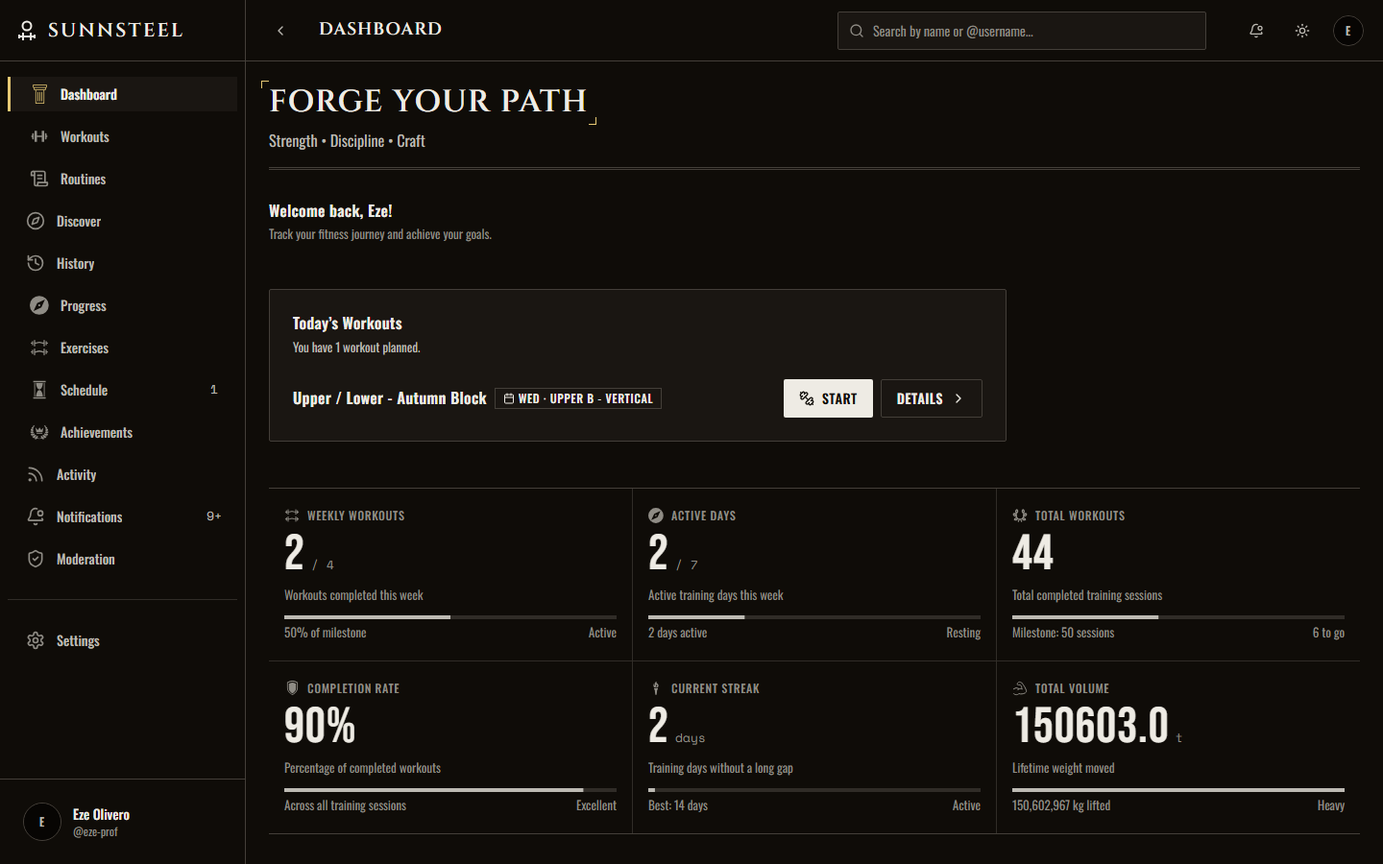
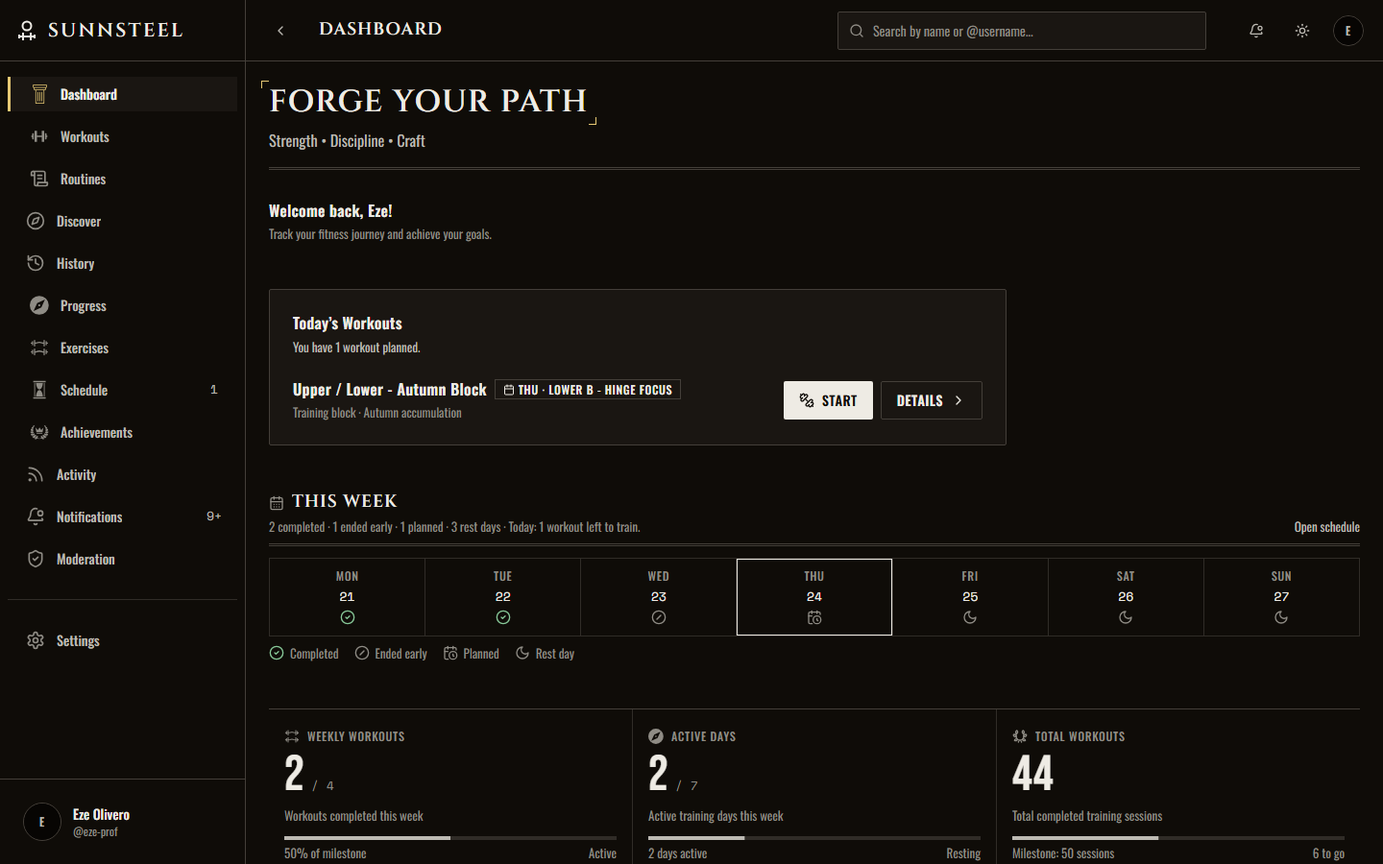
docs(dashboard): record DASH-03 and refresh the dashboard frame

diff --git a/AGENTS.md b/AGENTS.md
@@ -35,7 +35,7 @@ npm run ui:regression  # the 480-case sweep; scope it with -- -g "<title pattern
 
 **Vitest is configured** (added in T-01) — `npm test` / `npm run test:watch`. `npm run verify` runs lock:check → lint → typecheck → **test** → build, and CI ([.github/workflows/ci.yml](.github/workflows/ci.yml)) mirrors it on Node 22 (required by the current Supabase client).
 
-Coverage stays in Node: **pure logic, auth event orchestration and API-contract tests**, 599 tests across eighty-seven files, including `lib/api/types/workout-stats.test.ts` for local week boundaries, previous-performance, strength-trend ranges/chart mapping, exercise-performance, muscle-heatmap and volume-trend query serialization, heatmap matrix/intensity ranking, volume comparison summaries, weight-unit conversion, training-location preferences, finite-inventory plate loading, live-record celebration, progression-change presentation, stale-session recovery, session-resolution copy, profile sharing, profile-card identity/rank/accomplishment mapping and filenames, featured-profile ordering, shared slot limits, reached-rank selection and public profile achievement-ledger presence, rank identity (every ladder ID has its own pigment and crest tier, none borrows a locked role, and an unreached rank is ink-3), relationship-list routes, copy and follow-state cache updates, training-partner state labels, stable member matching and the fixed encouragement vocabulary, dashboard primary-action precedence, empty-state actions, the dashboard's upcoming-milestone placement, its stated training facts and its bounded preview of the followed-members feed (DASH-08), privacy-overview grouping, session-share links, field toggles and shared-recap sections, motion-preference resolution, the pre-paint motion script and splash timing, duration formatting, training-identity labels, routine day- and exercise-count pluralisation, routine schedules (rotation next day, day titles, wizard mode switching and rotation presets), the weekly schedule (planned and not-logged rules, session placement by start date, rotation notes, planned rest days and which entries can start or resume), training blocks in the schedule (each date by the plan in force, a rotation block from its first day and the baseline resuming after it, move targets per date and the session's snapshot prescription), deloads (the date rules the server enforces and their wording, a deload's days on its dates beside the block it lightens, a rotation continuing through one and a workout moved into one), starter templates (the approved set, valid schedules, the draft they open as with blank loads and the refusal when the catalog lacks an exercise), the monthly calendar (grid weeks, one mark per day by precedence and month-only counts), rotations on training weekdays (the plan from today, after a live or finished session of the day, and the builder's carry-over), moved workouts (both dates, a session on either date, rest replaced, the move targets and actions), skipped workouts (never not logged, a session still counts, a skipped day free to move onto, the skip limit and postponing), in-app notifications (their wording and destinations, the bell's label and marking read in the cache), navigation indicators (exact unread labels, compact counts and active-session schedule suppression), push availability (VAPID decoding, device labels, the iOS install requirement and every refusal it outranks), notification-control copy (overnight quiet windows, the reminder rule, partner opt-in/privacy boundaries and the notice that outranks the others), routine-sharing visibility capping and link urls, routine-clone copy, summary lines and the member-routine sub-path, block and report copy, moderation-review copy (what a withheld subject may be called, which actions a report offers and the receipt that still promises no timetable), routine-lineage wording and links, routine-discovery copy, summaries and query serialization, activity copy (the record each entry names in the viewer's unit, workout grouping, link routes, audience-cap wording, reaction labels and counts, and query serialization), routine versions (day and exercise matching, change wording and the restores the server would refuse), the routine quality summary (weekly muscle sets, duration estimates, location-equipment matching and imbalance flags), exercise-alternative ranking and its reasons, catalog browsing filters (URL state, muscle/equipment/gym/pattern/trained matching and empty states), exercise-page routine usage and set-scheme labels, starred/recent picker grouping and optimistic star updates, plateau-watch copy (thresholds, counts, closest-set wording and the sensitivity options), achievement grouping, threshold order, safe next-milestone presentation and comeback evidence, password-reset redirects and forms, in-session exercise substitutions, logout marker recovery in the auth suites, the middleware matcher covering every protected prefix in both directions (TD-45), activity-comment copy plus the count patched into every loaded query (SOC-06), which routine days "Train another day" offers (LIVE-06), account-deletion copy, the moderator refusal and the typed confirmation (TRUST-01), avatar storage paths, stale-file selection and the cropper's size cap (PROF-01), the export file's name, readable JSON and plain-language description (EXPORT-01), and post-workout corrections: the window and closed-reason copy, set values and changes in the viewer's unit, the draft that sends an untouched pound weight back exactly, and the rows it refuses (LIVE-17), session-note copy, labels, the character count and slot lookup (LIVE-16), and the service worker's policy: owned and legacy cache names, which pages and files it caches and what it never caches (TD-44). Network calls are mocked. [vitest.config.ts](vitest.config.ts) uses `environment: 'node'` on purpose — there is no jsdom and no React Testing Library, so **hooks and components cannot be rendered in tests** without first deciding to add them.
+Coverage stays in Node: **pure logic, auth event orchestration and API-contract tests**, 604 tests across eighty-eight files, including `lib/api/types/workout-stats.test.ts` for local week boundaries, previous-performance, strength-trend ranges/chart mapping, exercise-performance, muscle-heatmap and volume-trend query serialization, heatmap matrix/intensity ranking, volume comparison summaries, weight-unit conversion, training-location preferences, finite-inventory plate loading, live-record celebration, progression-change presentation, stale-session recovery, session-resolution copy, profile sharing, profile-card identity/rank/accomplishment mapping and filenames, featured-profile ordering, shared slot limits, reached-rank selection and public profile achievement-ledger presence, rank identity (every ladder ID has its own pigment and crest tier, none borrows a locked role, and an unreached rank is ink-3), relationship-list routes, copy and follow-state cache updates, training-partner state labels, stable member matching and the fixed encouragement vocabulary, dashboard primary-action precedence, empty-state actions, the dashboard's upcoming-milestone placement, its stated training facts and its bounded preview of the followed-members feed (DASH-08), the weekly strip's marks, links and today line (DASH-03), privacy-overview grouping, session-share links, field toggles and shared-recap sections, motion-preference resolution, the pre-paint motion script and splash timing, duration formatting, training-identity labels, routine day- and exercise-count pluralisation, routine schedules (rotation next day, day titles, wizard mode switching and rotation presets), the weekly schedule (planned and not-logged rules, session placement by start date, rotation notes, planned rest days and which entries can start or resume), training blocks in the schedule (each date by the plan in force, a rotation block from its first day and the baseline resuming after it, move targets per date and the session's snapshot prescription), deloads (the date rules the server enforces and their wording, a deload's days on its dates beside the block it lightens, a rotation continuing through one and a workout moved into one), starter templates (the approved set, valid schedules, the draft they open as with blank loads and the refusal when the catalog lacks an exercise), the monthly calendar (grid weeks, one mark per day by precedence and month-only counts), rotations on training weekdays (the plan from today, after a live or finished session of the day, and the builder's carry-over), moved workouts (both dates, a session on either date, rest replaced, the move targets and actions), skipped workouts (never not logged, a session still counts, a skipped day free to move onto, the skip limit and postponing), in-app notifications (their wording and destinations, the bell's label and marking read in the cache), navigation indicators (exact unread labels, compact counts and active-session schedule suppression), push availability (VAPID decoding, device labels, the iOS install requirement and every refusal it outranks), notification-control copy (overnight quiet windows, the reminder rule, partner opt-in/privacy boundaries and the notice that outranks the others), routine-sharing visibility capping and link urls, routine-clone copy, summary lines and the member-routine sub-path, block and report copy, moderation-review copy (what a withheld subject may be called, which actions a report offers and the receipt that still promises no timetable), routine-lineage wording and links, routine-discovery copy, summaries and query serialization, activity copy (the record each entry names in the viewer's unit, workout grouping, link routes, audience-cap wording, reaction labels and counts, and query serialization), routine versions (day and exercise matching, change wording and the restores the server would refuse), the routine quality summary (weekly muscle sets, duration estimates, location-equipment matching and imbalance flags), exercise-alternative ranking and its reasons, catalog browsing filters (URL state, muscle/equipment/gym/pattern/trained matching and empty states), exercise-page routine usage and set-scheme labels, starred/recent picker grouping and optimistic star updates, plateau-watch copy (thresholds, counts, closest-set wording and the sensitivity options), achievement grouping, threshold order, safe next-milestone presentation and comeback evidence, password-reset redirects and forms, in-session exercise substitutions, logout marker recovery in the auth suites, the middleware matcher covering every protected prefix in both directions (TD-45), activity-comment copy plus the count patched into every loaded query (SOC-06), which routine days "Train another day" offers (LIVE-06), account-deletion copy, the moderator refusal and the typed confirmation (TRUST-01), avatar storage paths, stale-file selection and the cropper's size cap (PROF-01), the export file's name, readable JSON and plain-language description (EXPORT-01), and post-workout corrections: the window and closed-reason copy, set values and changes in the viewer's unit, the draft that sends an untouched pound weight back exactly, and the rows it refuses (LIVE-17), session-note copy, labels, the character count and slot lookup (LIVE-16), and the service worker's policy: owned and legacy cache names, which pages and files it caches and what it never caches (TD-44). Network calls are mocked. [vitest.config.ts](vitest.config.ts) uses `environment: 'node'` on purpose — there is no jsdom and no React Testing Library, so **hooks and components cannot be rendered in tests** without first deciding to add them.
 
 The goals coverage includes query serialization plus target validation, uniqueness and kg/lb conversion in [lib/utils/measurable-goals.test.ts](lib/utils/measurable-goals.test.ts).
 
@@ -243,6 +243,7 @@ These were re-verified against the current frontend, backend and contracts trees
 - **Discovery is a separate destination, and says what it is (ROUT-07).** `/routines/discover` ([RoutineDiscovery.tsx](features/routines/components/RoutineDiscovery.tsx)) has its own sidebar entry because the Routines page is about **your own** routines and folding discovery in would hide it. It states its scope once at the top — it lists what the viewer could already open from a profile, so browsing reveals nothing that was private — and labels every session length an **estimate**, since the number comes from `ROUT-10`'s rule applied to the prescription rather than from anyone's workouts. A truncated scan says so rather than looking like the whole catalogue. Filtering happens server-side; the client only serializes, and `buildDiscoveryParams` **repeats** `equipment` rather than joining it, because a comma-joined value would arrive as one nonexistent equipment item. `describeClassification` returns `null` for an unclassified routine instead of rendering "Not specified" — a routine is not worse for making no claim. The wizard's basic-info step is where `goal` and `experienceLevel` are declared, both optional and both sent as `null` when cleared, so editing a routine back to unspecified actually removes the claim rather than leaving the old one.
 - **Activity is generated, never composed, and who sees it is the server's decision (SOC-03/SOC-04).** `/activity` has two views: Following ([activity-feed.tsx](features/activity/activity-feed.tsx)), the members the viewer follows, and Yours ([own-activity.tsx](features/activity/own-activity.tsx)), every entry of the owner's with a per-entry audience select and a "See it as" toggle whose follower and other-member previews come from `GET /activity/mine/preview` -- the same read an audience gets, not a client-side filter. Another member's profile shows their activity through [member-activity.tsx](features/profile/member-activity.tsx), passed into `ProfileView` as the `activity` slot, so the signed-out `/members` route, which passes none, never shows activity; "Everyone" therefore means every signed-in member, and the copy says so. Defaults per kind live in Settings ([activity-sharing-card.tsx](features/settings/activity-sharing-card.tsx)), a draft saved in one step because a default reaches past entries too; every kind starts at Only me. **Never decide visibility or links in the client**: each entry's `link` arrives resolved (a record only while it is the profile's current best, a session or load progression never for another member) and [activity.ts](lib/utils/activity.ts) only maps it to a route; `sharing.cappedBy` names the profile section or the routine that narrowed a choice, and the row must state it rather than let a wider choice look honoured. `groupActivity` joins one author's facts of one workout into one row even when another member falls between them. Withdrawing is choosing Only me on the row; there is no second state. `ActivityFact` icons stay ink -- a feed can hold many records, and honour is capped at two marks per viewport. **Reactions (`SOC-05`) hang off the same entry** ([activity-reactions.tsx](features/activity/activity-reactions.tsx)): four controls under each fact in the feed and on a member's profile, ghost because they repeat on every entry, with the viewer's choice carried by `aria-pressed` and an accessible name that also says choosing it again removes it — never colour alone. A count renders only when somebody reacted, so no zero is shown, and your own activity gets the counts without controls because the server refuses a reaction to your own entry. The summary arrives **inside** the entry, so a reaction can never appear on something the viewer was not allowed to see, and `useSetActivityReaction` patches every loaded activity query, because one entry can be on screen in the feed, a profile and the owner's list at once.
 - **The dashboard's social preview is the feed, not a copy of it (DASH-08).** [FollowingPreview](<app/(protected)/dashboard/components/FollowingPreview.tsx>) sits last on the dashboard, below every training section, and calls `useActivityFeed` -- the same key and cache as `/activity`, so opening Activity after the dashboard is served from cache and the server's `SOC-04` audiences decide every entry. [dashboard-following.ts](lib/utils/dashboard-following.ts) only bounds it: three `groupActivity` rows of at most two facts, the remainder counted as "and N more from this workout". It never fetches another page, and it renders `ActivityFact` with `discussion={false}`, so reactions and comments stay on `/activity`. Its empty states are `describeEmptyFeed`'s. Do not give it its own query, a `limit`, or its own gathering: a second key would drift from the feed that every activity mutation patches.
+- **The dashboard's week strip is the schedule's week, not a second one (DASH-03).** [WeekStrip](<app/(protected)/dashboard/components/WeekStrip.tsx>) sits right after Today's Workouts and builds the current week once with `buildScheduleWeek` over `useScheduleData` -- the same reads and cache keys as `/schedule` for this week -- and [dashboard-week.ts](lib/utils/dashboard-week.ts) only places it: each day's mark is the month view's `scheduleDayState` and its accessible name `describeMonthCell`, the summary is `describeScheduleTotals`, and a day links to its live session, else its latest completed workout, else its latest ended-early one, else `/schedule`. Today's line (`Today: N workouts left to train`, in progress or trained) comes from `useTodaysWorkouts`, the read the card above uses, so the two cannot disagree. Every day is a link, never a button: the Today's Workouts card keeps the one filled action. Do not give it its own week build or its own sessions query.
 - **Comments are discussion on one verified fact, and the entry read is their only gate (SOC-06).** [activity-comments.tsx](features/activity/activity-comments.tsx) renders under every entry in the feed, on a member's profile and in the owner's list. **The list is collapsed until asked for**: an entry carries only its count, and a feed page that fetched every comment on every entry would read the whole conversation to show a number — opening one is what loads it. There are **no threads, no mentions, no editing and no reactions on comments**; adding any of them is a new decision rather than an extension of this one. `canDelete` arrives resolved, for the same reason a `SOC-03` link does: the server decides what a viewer may do, and a control the server would refuse must never be rendered. Two people see it — the author and the owner of the activity — so the confirmation says which of the two deletions the viewer is making, and it is an `AlertDialog` like every other destructive confirmation rather than a native `window.confirm`, which appears nowhere in this product. **The composer is replaced by its reason when the daily budget is spent**, because a control that is present and refuses on click reads as broken. `useActivityComments` reads with `staleTime: 0` so a comment deleted by its author or hidden by a moderator stops showing at once, and the mutations patch the count into every loaded activity query — one entry can be on screen in three places at once — while invalidating the list itself. Reporting one reuses `ReportDialog` with `subjectKind: 'COMMENT'`; `moderationSubjectHref` returns `null` for a comment on purpose, since it has no page of its own and the queue already shows its text.
 - **Avatars live in `avatars/<Supabase auth uid>/<timestamp>.jpg`, and only the member may write there (PROF-01).** The bucket and its policies are a versioned migration, [supabase/migrations/20260923103003_avatars_bucket.sql](supabase/migrations/20260923103003_avatars_bucket.sql) -- the project's first; it had **no bucket at all** until 2026-09-23, so every upload since PROF-01 shipped had failed with "Bucket not found". Reads are public (a public bucket bypasses RLS for `/object/public/*`); insert, update, list and delete are allowed to `authenticated` only inside the folder whose name is `auth.uid()`. **The folder is the auth uid, never the local `User.id`**, because `auth.uid()` is all RLS can see -- the old code named files after `user.id` from `useUser()`, which no policy could have matched. [avatar-storage.ts](lib/utils/avatar-storage.ts) owns the path; each upload gets a new name, because a public URL is cached and a new name is a new image everywhere at once. [useUploadAvatar](lib/api/hooks/useUploadAvatar.ts) uploads, points the profile at the new URL, then removes the member's older files; if the profile update fails it removes the file it just stored. [cropImage.ts](lib/utils/cropImage.ts) scales the crop down to 512px (a phone crop is thousands of pixels and several MB), and the bucket refuses anything over 2 MiB or not JPEG/PNG/WebP. The backend's account deletion removes the whole folder with the service role. A bucket or policy change is a new file in `supabase/migrations/`, applied to the project and recorded there -- never a dashboard click.
 - **Notes are about this workout and never touch the routine (LIVE-16).** [session-notes.tsx](features/workout/session-notes.tsx) holds `ExerciseNoteButton` (a ghost icon on every exercise of the live session and of a finished one's history page, its state in its accessible name) and `WorkoutNoteButton` (the session screen's Workout Note section and the recap's notes, through `SessionRecapPanel`'s `notesAction`); both save through `useUpdateSessionNotes`, which patches `session.notes`/`session.exerciseNotes` from the server's answer and refetches the recap and history lists. **The routine's exercise note is the standing instruction**: `ExerciseGroup` shows it read-only as "Routine note" and the dialog repeats it above the field. The session screen's old note button wrote that routine note, so a remark about today silently replaced the instruction for every later workout; `useUpdateExerciseNote` and `routineService.updateExerciseNote` went with it. The routine wizard still edits routine notes in its own form state. Exercise notes appear in the recap under Session notes and in a shared link only when notes are shared.

diff --git a/CLAUDE.md b/CLAUDE.md
@@ -35,7 +35,7 @@ npm run ui:regression  # the 480-case sweep; scope it with -- -g "<title pattern
 
 **Vitest is configured** (added in T-01) — `npm test` / `npm run test:watch`. `npm run verify` runs lock:check → lint → typecheck → **test** → build, and CI ([.github/workflows/ci.yml](.github/workflows/ci.yml)) mirrors it on Node 22 (required by the current Supabase client).
 
-Coverage stays in Node: **pure logic, auth event orchestration and API-contract tests**, 599 tests across eighty-seven files, including `lib/api/types/workout-stats.test.ts` for local week boundaries, previous-performance, strength-trend ranges/chart mapping, exercise-performance, muscle-heatmap and volume-trend query serialization, heatmap matrix/intensity ranking, volume comparison summaries, weight-unit conversion, training-location preferences, finite-inventory plate loading, live-record celebration, progression-change presentation, stale-session recovery, session-resolution copy, profile sharing, profile-card identity/rank/accomplishment mapping and filenames, featured-profile ordering, shared slot limits, reached-rank selection and public profile achievement-ledger presence, rank identity (every ladder ID has its own pigment and crest tier, none borrows a locked role, and an unreached rank is ink-3), relationship-list routes, copy and follow-state cache updates, training-partner state labels, stable member matching and the fixed encouragement vocabulary, dashboard primary-action precedence, empty-state actions, the dashboard's upcoming-milestone placement, its stated training facts and its bounded preview of the followed-members feed (DASH-08), privacy-overview grouping, session-share links, field toggles and shared-recap sections, motion-preference resolution, the pre-paint motion script and splash timing, duration formatting, training-identity labels, routine day- and exercise-count pluralisation, routine schedules (rotation next day, day titles, wizard mode switching and rotation presets), the weekly schedule (planned and not-logged rules, session placement by start date, rotation notes, planned rest days and which entries can start or resume), training blocks in the schedule (each date by the plan in force, a rotation block from its first day and the baseline resuming after it, move targets per date and the session's snapshot prescription), deloads (the date rules the server enforces and their wording, a deload's days on its dates beside the block it lightens, a rotation continuing through one and a workout moved into one), starter templates (the approved set, valid schedules, the draft they open as with blank loads and the refusal when the catalog lacks an exercise), the monthly calendar (grid weeks, one mark per day by precedence and month-only counts), rotations on training weekdays (the plan from today, after a live or finished session of the day, and the builder's carry-over), moved workouts (both dates, a session on either date, rest replaced, the move targets and actions), skipped workouts (never not logged, a session still counts, a skipped day free to move onto, the skip limit and postponing), in-app notifications (their wording and destinations, the bell's label and marking read in the cache), navigation indicators (exact unread labels, compact counts and active-session schedule suppression), push availability (VAPID decoding, device labels, the iOS install requirement and every refusal it outranks), notification-control copy (overnight quiet windows, the reminder rule, partner opt-in/privacy boundaries and the notice that outranks the others), routine-sharing visibility capping and link urls, routine-clone copy, summary lines and the member-routine sub-path, block and report copy, moderation-review copy (what a withheld subject may be called, which actions a report offers and the receipt that still promises no timetable), routine-lineage wording and links, routine-discovery copy, summaries and query serialization, activity copy (the record each entry names in the viewer's unit, workout grouping, link routes, audience-cap wording, reaction labels and counts, and query serialization), routine versions (day and exercise matching, change wording and the restores the server would refuse), the routine quality summary (weekly muscle sets, duration estimates, location-equipment matching and imbalance flags), exercise-alternative ranking and its reasons, catalog browsing filters (URL state, muscle/equipment/gym/pattern/trained matching and empty states), exercise-page routine usage and set-scheme labels, starred/recent picker grouping and optimistic star updates, plateau-watch copy (thresholds, counts, closest-set wording and the sensitivity options), achievement grouping, threshold order, safe next-milestone presentation and comeback evidence, password-reset redirects and forms, in-session exercise substitutions, logout marker recovery in the auth suites, the middleware matcher covering every protected prefix in both directions (TD-45), activity-comment copy plus the count patched into every loaded query (SOC-06), which routine days "Train another day" offers (LIVE-06), account-deletion copy, the moderator refusal and the typed confirmation (TRUST-01), avatar storage paths, stale-file selection and the cropper's size cap (PROF-01), the export file's name, readable JSON and plain-language description (EXPORT-01), and post-workout corrections: the window and closed-reason copy, set values and changes in the viewer's unit, the draft that sends an untouched pound weight back exactly, and the rows it refuses (LIVE-17), session-note copy, labels, the character count and slot lookup (LIVE-16), and the service worker's policy: owned and legacy cache names, which pages and files it caches and what it never caches (TD-44). Network calls are mocked. [vitest.config.ts](vitest.config.ts) uses `environment: 'node'` on purpose — there is no jsdom and no React Testing Library, so **hooks and components cannot be rendered in tests** without first deciding to add them.
+Coverage stays in Node: **pure logic, auth event orchestration and API-contract tests**, 604 tests across eighty-eight files, including `lib/api/types/workout-stats.test.ts` for local week boundaries, previous-performance, strength-trend ranges/chart mapping, exercise-performance, muscle-heatmap and volume-trend query serialization, heatmap matrix/intensity ranking, volume comparison summaries, weight-unit conversion, training-location preferences, finite-inventory plate loading, live-record celebration, progression-change presentation, stale-session recovery, session-resolution copy, profile sharing, profile-card identity/rank/accomplishment mapping and filenames, featured-profile ordering, shared slot limits, reached-rank selection and public profile achievement-ledger presence, rank identity (every ladder ID has its own pigment and crest tier, none borrows a locked role, and an unreached rank is ink-3), relationship-list routes, copy and follow-state cache updates, training-partner state labels, stable member matching and the fixed encouragement vocabulary, dashboard primary-action precedence, empty-state actions, the dashboard's upcoming-milestone placement, its stated training facts and its bounded preview of the followed-members feed (DASH-08), the weekly strip's marks, links and today line (DASH-03), privacy-overview grouping, session-share links, field toggles and shared-recap sections, motion-preference resolution, the pre-paint motion script and splash timing, duration formatting, training-identity labels, routine day- and exercise-count pluralisation, routine schedules (rotation next day, day titles, wizard mode switching and rotation presets), the weekly schedule (planned and not-logged rules, session placement by start date, rotation notes, planned rest days and which entries can start or resume), training blocks in the schedule (each date by the plan in force, a rotation block from its first day and the baseline resuming after it, move targets per date and the session's snapshot prescription), deloads (the date rules the server enforces and their wording, a deload's days on its dates beside the block it lightens, a rotation continuing through one and a workout moved into one), starter templates (the approved set, valid schedules, the draft they open as with blank loads and the refusal when the catalog lacks an exercise), the monthly calendar (grid weeks, one mark per day by precedence and month-only counts), rotations on training weekdays (the plan from today, after a live or finished session of the day, and the builder's carry-over), moved workouts (both dates, a session on either date, rest replaced, the move targets and actions), skipped workouts (never not logged, a session still counts, a skipped day free to move onto, the skip limit and postponing), in-app notifications (their wording and destinations, the bell's label and marking read in the cache), navigation indicators (exact unread labels, compact counts and active-session schedule suppression), push availability (VAPID decoding, device labels, the iOS install requirement and every refusal it outranks), notification-control copy (overnight quiet windows, the reminder rule, partner opt-in/privacy boundaries and the notice that outranks the others), routine-sharing visibility capping and link urls, routine-clone copy, summary lines and the member-routine sub-path, block and report copy, moderation-review copy (what a withheld subject may be called, which actions a report offers and the receipt that still promises no timetable), routine-lineage wording and links, routine-discovery copy, summaries and query serialization, activity copy (the record each entry names in the viewer's unit, workout grouping, link routes, audience-cap wording, reaction labels and counts, and query serialization), routine versions (day and exercise matching, change wording and the restores the server would refuse), the routine quality summary (weekly muscle sets, duration estimates, location-equipment matching and imbalance flags), exercise-alternative ranking and its reasons, catalog browsing filters (URL state, muscle/equipment/gym/pattern/trained matching and empty states), exercise-page routine usage and set-scheme labels, starred/recent picker grouping and optimistic star updates, plateau-watch copy (thresholds, counts, closest-set wording and the sensitivity options), achievement grouping, threshold order, safe next-milestone presentation and comeback evidence, password-reset redirects and forms, in-session exercise substitutions, logout marker recovery in the auth suites, the middleware matcher covering every protected prefix in both directions (TD-45), activity-comment copy plus the count patched into every loaded query (SOC-06), which routine days "Train another day" offers (LIVE-06), account-deletion copy, the moderator refusal and the typed confirmation (TRUST-01), avatar storage paths, stale-file selection and the cropper's size cap (PROF-01), the export file's name, readable JSON and plain-language description (EXPORT-01), and post-workout corrections: the window and closed-reason copy, set values and changes in the viewer's unit, the draft that sends an untouched pound weight back exactly, and the rows it refuses (LIVE-17), session-note copy, labels, the character count and slot lookup (LIVE-16), and the service worker's policy: owned and legacy cache names, which pages and files it caches and what it never caches (TD-44). Network calls are mocked. [vitest.config.ts](vitest.config.ts) uses `environment: 'node'` on purpose — there is no jsdom and no React Testing Library, so **hooks and components cannot be rendered in tests** without first deciding to add them.
 
 The goals coverage includes query serialization plus target validation, uniqueness and kg/lb conversion in [lib/utils/measurable-goals.test.ts](lib/utils/measurable-goals.test.ts).
 
@@ -243,6 +243,7 @@ These were re-verified against the current frontend, backend and contracts trees
 - **Discovery is a separate destination, and says what it is (ROUT-07).** `/routines/discover` ([RoutineDiscovery.tsx](features/routines/components/RoutineDiscovery.tsx)) has its own sidebar entry because the Routines page is about **your own** routines and folding discovery in would hide it. It states its scope once at the top — it lists what the viewer could already open from a profile, so browsing reveals nothing that was private — and labels every session length an **estimate**, since the number comes from `ROUT-10`'s rule applied to the prescription rather than from anyone's workouts. A truncated scan says so rather than looking like the whole catalogue. Filtering happens server-side; the client only serializes, and `buildDiscoveryParams` **repeats** `equipment` rather than joining it, because a comma-joined value would arrive as one nonexistent equipment item. `describeClassification` returns `null` for an unclassified routine instead of rendering "Not specified" — a routine is not worse for making no claim. The wizard's basic-info step is where `goal` and `experienceLevel` are declared, both optional and both sent as `null` when cleared, so editing a routine back to unspecified actually removes the claim rather than leaving the old one.
 - **Activity is generated, never composed, and who sees it is the server's decision (SOC-03/SOC-04).** `/activity` has two views: Following ([activity-feed.tsx](features/activity/activity-feed.tsx)), the members the viewer follows, and Yours ([own-activity.tsx](features/activity/own-activity.tsx)), every entry of the owner's with a per-entry audience select and a "See it as" toggle whose follower and other-member previews come from `GET /activity/mine/preview` -- the same read an audience gets, not a client-side filter. Another member's profile shows their activity through [member-activity.tsx](features/profile/member-activity.tsx), passed into `ProfileView` as the `activity` slot, so the signed-out `/members` route, which passes none, never shows activity; "Everyone" therefore means every signed-in member, and the copy says so. Defaults per kind live in Settings ([activity-sharing-card.tsx](features/settings/activity-sharing-card.tsx)), a draft saved in one step because a default reaches past entries too; every kind starts at Only me. **Never decide visibility or links in the client**: each entry's `link` arrives resolved (a record only while it is the profile's current best, a session or load progression never for another member) and [activity.ts](lib/utils/activity.ts) only maps it to a route; `sharing.cappedBy` names the profile section or the routine that narrowed a choice, and the row must state it rather than let a wider choice look honoured. `groupActivity` joins one author's facts of one workout into one row even when another member falls between them. Withdrawing is choosing Only me on the row; there is no second state. `ActivityFact` icons stay ink -- a feed can hold many records, and honour is capped at two marks per viewport. **Reactions (`SOC-05`) hang off the same entry** ([activity-reactions.tsx](features/activity/activity-reactions.tsx)): four controls under each fact in the feed and on a member's profile, ghost because they repeat on every entry, with the viewer's choice carried by `aria-pressed` and an accessible name that also says choosing it again removes it — never colour alone. A count renders only when somebody reacted, so no zero is shown, and your own activity gets the counts without controls because the server refuses a reaction to your own entry. The summary arrives **inside** the entry, so a reaction can never appear on something the viewer was not allowed to see, and `useSetActivityReaction` patches every loaded activity query, because one entry can be on screen in the feed, a profile and the owner's list at once.
 - **The dashboard's social preview is the feed, not a copy of it (DASH-08).** [FollowingPreview](<app/(protected)/dashboard/components/FollowingPreview.tsx>) sits last on the dashboard, below every training section, and calls `useActivityFeed` -- the same key and cache as `/activity`, so opening Activity after the dashboard is served from cache and the server's `SOC-04` audiences decide every entry. [dashboard-following.ts](lib/utils/dashboard-following.ts) only bounds it: three `groupActivity` rows of at most two facts, the remainder counted as "and N more from this workout". It never fetches another page, and it renders `ActivityFact` with `discussion={false}`, so reactions and comments stay on `/activity`. Its empty states are `describeEmptyFeed`'s. Do not give it its own query, a `limit`, or its own gathering: a second key would drift from the feed that every activity mutation patches.
+- **The dashboard's week strip is the schedule's week, not a second one (DASH-03).** [WeekStrip](<app/(protected)/dashboard/components/WeekStrip.tsx>) sits right after Today's Workouts and builds the current week once with `buildScheduleWeek` over `useScheduleData` -- the same reads and cache keys as `/schedule` for this week -- and [dashboard-week.ts](lib/utils/dashboard-week.ts) only places it: each day's mark is the month view's `scheduleDayState` and its accessible name `describeMonthCell`, the summary is `describeScheduleTotals`, and a day links to its live session, else its latest completed workout, else its latest ended-early one, else `/schedule`. Today's line (`Today: N workouts left to train`, in progress or trained) comes from `useTodaysWorkouts`, the read the card above uses, so the two cannot disagree. Every day is a link, never a button: the Today's Workouts card keeps the one filled action. Do not give it its own week build or its own sessions query.
 - **Comments are discussion on one verified fact, and the entry read is their only gate (SOC-06).** [activity-comments.tsx](features/activity/activity-comments.tsx) renders under every entry in the feed, on a member's profile and in the owner's list. **The list is collapsed until asked for**: an entry carries only its count, and a feed page that fetched every comment on every entry would read the whole conversation to show a number — opening one is what loads it. There are **no threads, no mentions, no editing and no reactions on comments**; adding any of them is a new decision rather than an extension of this one. `canDelete` arrives resolved, for the same reason a `SOC-03` link does: the server decides what a viewer may do, and a control the server would refuse must never be rendered. Two people see it — the author and the owner of the activity — so the confirmation says which of the two deletions the viewer is making, and it is an `AlertDialog` like every other destructive confirmation rather than a native `window.confirm`, which appears nowhere in this product. **The composer is replaced by its reason when the daily budget is spent**, because a control that is present and refuses on click reads as broken. `useActivityComments` reads with `staleTime: 0` so a comment deleted by its author or hidden by a moderator stops showing at once, and the mutations patch the count into every loaded activity query — one entry can be on screen in three places at once — while invalidating the list itself. Reporting one reuses `ReportDialog` with `subjectKind: 'COMMENT'`; `moderationSubjectHref` returns `null` for a comment on purpose, since it has no page of its own and the queue already shows its text.
 - **Avatars live in `avatars/<Supabase auth uid>/<timestamp>.jpg`, and only the member may write there (PROF-01).** The bucket and its policies are a versioned migration, [supabase/migrations/20260923103003_avatars_bucket.sql](supabase/migrations/20260923103003_avatars_bucket.sql) -- the project's first; it had **no bucket at all** until 2026-09-23, so every upload since PROF-01 shipped had failed with "Bucket not found". Reads are public (a public bucket bypasses RLS for `/object/public/*`); insert, update, list and delete are allowed to `authenticated` only inside the folder whose name is `auth.uid()`. **The folder is the auth uid, never the local `User.id`**, because `auth.uid()` is all RLS can see -- the old code named files after `user.id` from `useUser()`, which no policy could have matched. [avatar-storage.ts](lib/utils/avatar-storage.ts) owns the path; each upload gets a new name, because a public URL is cached and a new name is a new image everywhere at once. [useUploadAvatar](lib/api/hooks/useUploadAvatar.ts) uploads, points the profile at the new URL, then removes the member's older files; if the profile update fails it removes the file it just stored. [cropImage.ts](lib/utils/cropImage.ts) scales the crop down to 512px (a phone crop is thousands of pixels and several MB), and the bucket refuses anything over 2 MiB or not JPEG/PNG/WebP. The backend's account deletion removes the whole folder with the service role. A bucket or policy change is a new file in `supabase/migrations/`, applied to the project and recorded there -- never a dashboard click.
 - **Notes are about this workout and never touch the routine (LIVE-16).** [session-notes.tsx](features/workout/session-notes.tsx) holds `ExerciseNoteButton` (a ghost icon on every exercise of the live session and of a finished one's history page, its state in its accessible name) and `WorkoutNoteButton` (the session screen's Workout Note section and the recap's notes, through `SessionRecapPanel`'s `notesAction`); both save through `useUpdateSessionNotes`, which patches `session.notes`/`session.exerciseNotes` from the server's answer and refetches the recap and history lists. **The routine's exercise note is the standing instruction**: `ExerciseGroup` shows it read-only as "Routine note" and the dialog repeats it above the field. The session screen's old note button wrote that routine note, so a remark about today silently replaced the instruction for every later workout; `useUpdateExerciseNote` and `routineService.updateExerciseNote` went with it. The routine wizard still edits routine notes in its own form state. Exercise notes appear in the recap under Session notes and in a shared link only when notes are shared.
